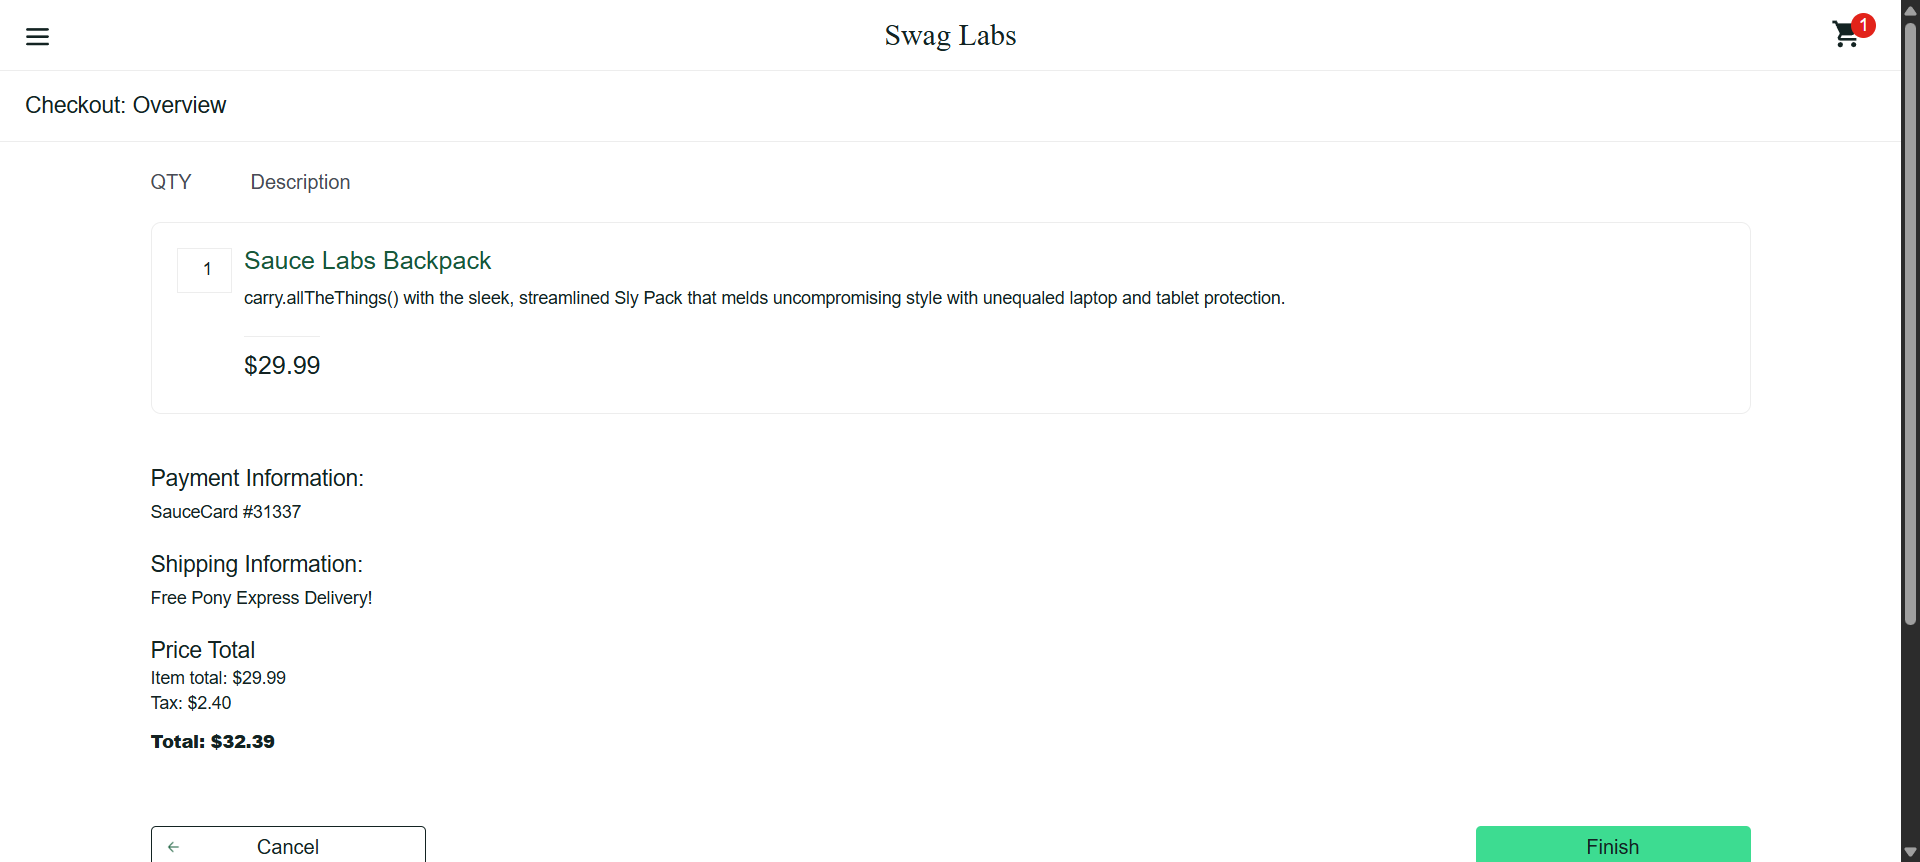
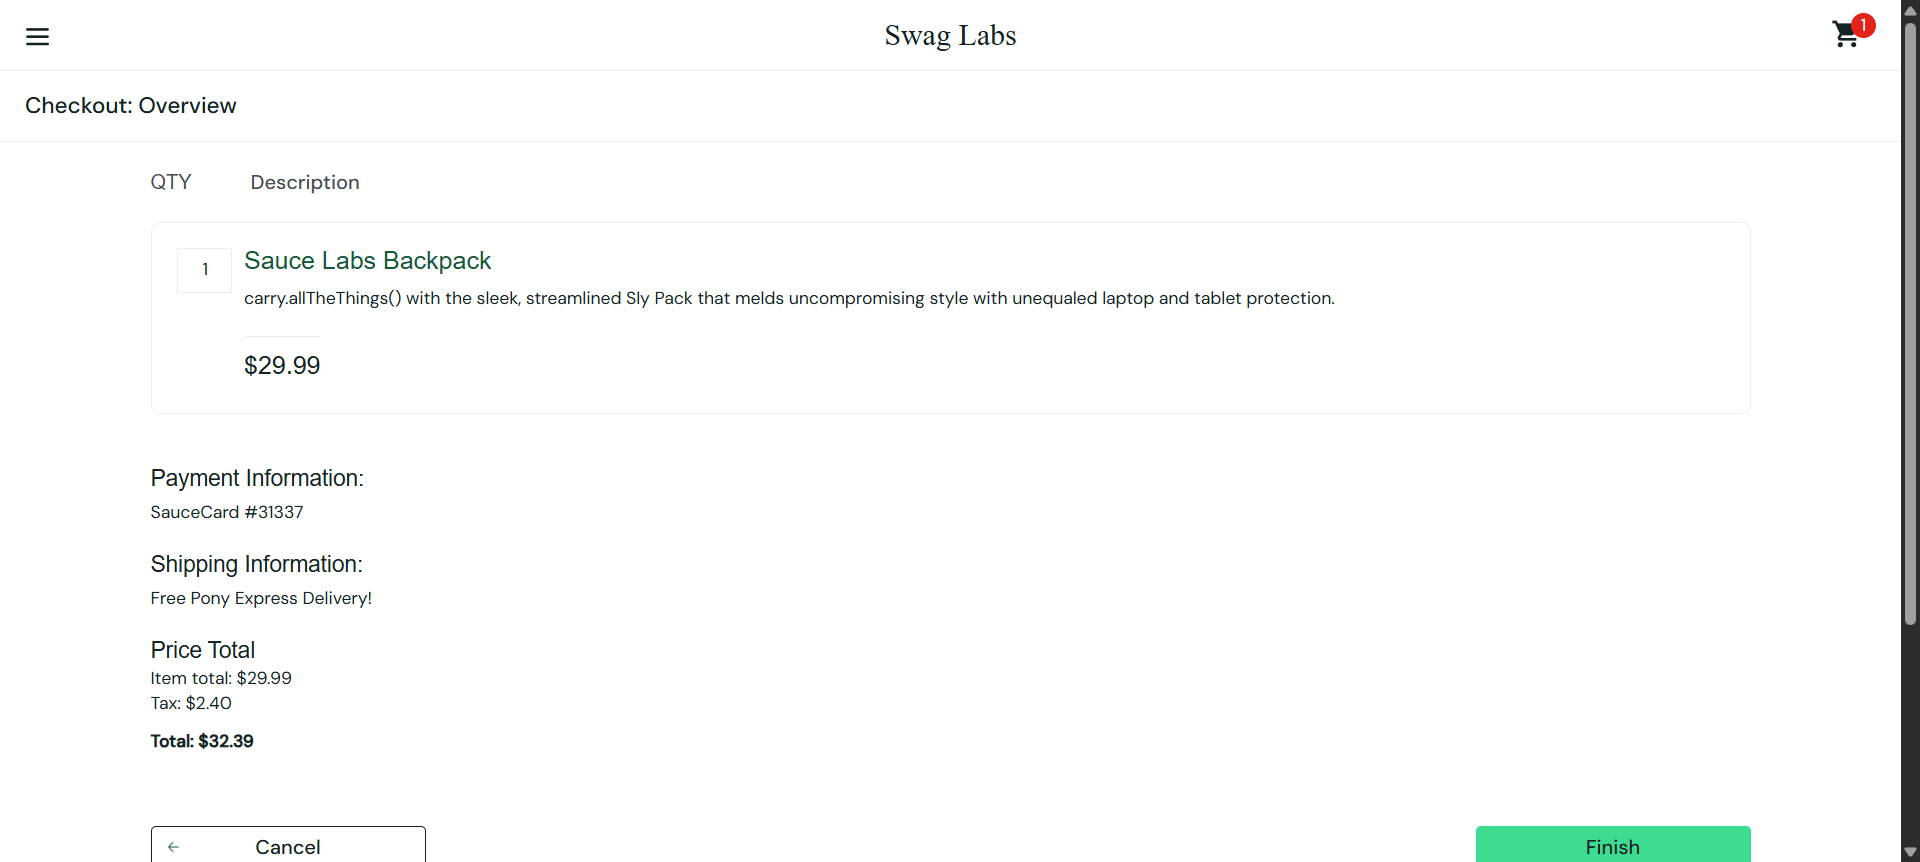
Add GitHub Actions CI workflow

diff --git a/src/test/java/base/BaseTest.java b/src/test/java/base/BaseTest.java
@@ -1,7 +1,9 @@
+
 package base;
 
 import org.openqa.selenium.WebDriver;
 import org.openqa.selenium.chrome.ChromeDriver;
+import org.openqa.selenium.chrome.ChromeOptions;
 import org.testng.annotations.AfterMethod;
 import org.testng.annotations.BeforeMethod;
 import org.testng.annotations.Listeners;
@@ -12,6 +14,7 @@ import utils.TestListener;
 public class BaseTest {
 
     protected WebDriver driver;
+
     public WebDriver getDriver() {
         return driver;
     }
@@ -19,7 +22,17 @@ public class BaseTest {
     @BeforeMethod
     public void setUp() {
 
-        driver = new ChromeDriver();
+        ChromeOptions options = new ChromeOptions();
+
+        // Run Chrome in headless mode only on GitHub Actions
+        if ("true".equals(System.getenv("GITHUB_ACTIONS"))) {
+            options.addArguments("--headless=new");
+            options.addArguments("--no-sandbox");
+            options.addArguments("--disable-dev-shm-usage");
+            options.addArguments("--window-size=1920,1080");
+        }
+
+        driver = new ChromeDriver(options);
 
         driver.manage().window().maximize();
 
@@ -29,6 +42,8 @@ public class BaseTest {
     @AfterMethod
     public void tearDown() {
 
-        driver.quit();
+        if (driver != null) {
+            driver.quit();
+        }
     }
 }
